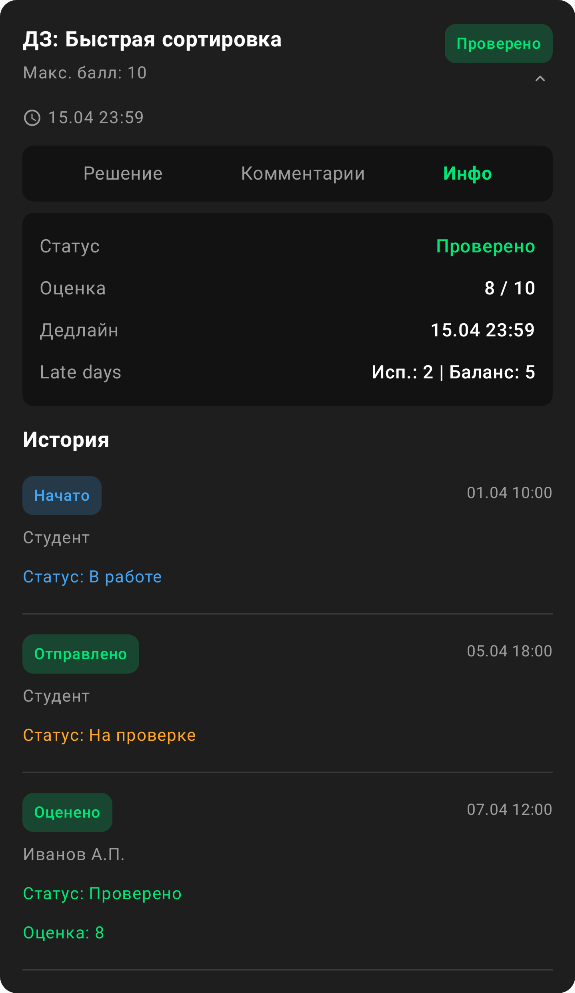
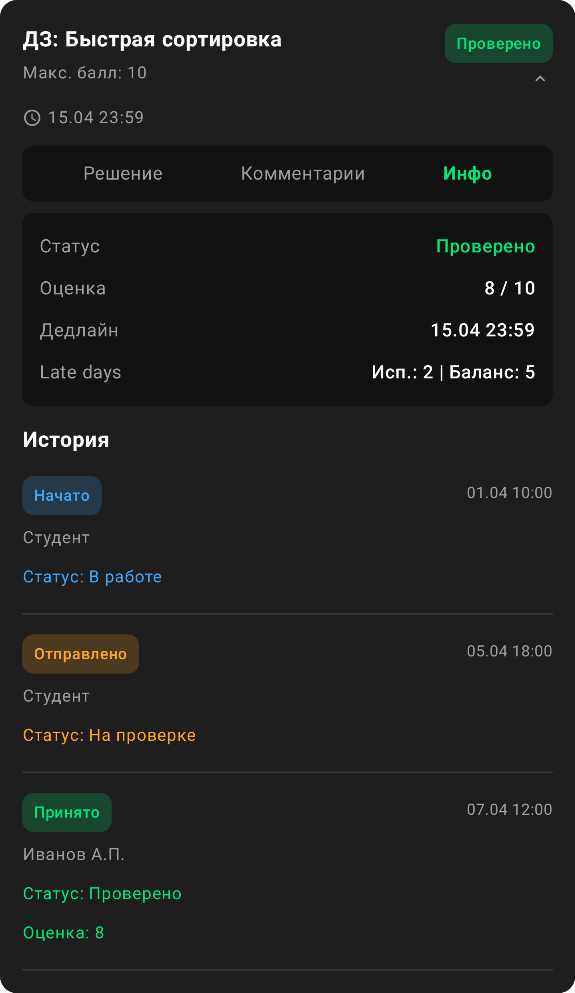
Update event type labels and colors in LongreadInfoTab (#31)
* Update event type labels and colors in LongreadInfoTab

- Refine Russian labels for event types to better match user expectations
- Update color mappings for task events (submission, rejection, reset)
- Add color assignments for taskReset and exerciseEstimated events
- Improve consistency in terminology across event descriptions

* Fix taskRejected event color to match app-wide theme

Use taskFailed (red) instead of taskInProgress (blue) for the
taskRejected event, consistent with taskStateColor in Theme.kt
where Rejected maps to colors.taskFailed.

---------

Changed region(s): [[0.0296, 0.6244, 0.2365, 0.6868], [0.0591, 0.8117, 0.1774, 0.8429]]

diff --git a/shared/src/commonMain/kotlin/io/github/kroune/cumobile/presentation/longread/ui/coding/LongreadInfoTab.kt b/shared/src/commonMain/kotlin/io/github/kroune/cumobile/presentation/longread/ui/coding/LongreadInfoTab.kt
@@ -197,22 +197,22 @@ private fun EventCard(
 private val eventTypeLabels = mapOf(
     "taskStarted" to "Начато",
     "taskSubmitted" to "Отправлено",
-    "taskEvaluated" to "Оценено",
-    "taskRejected" to "Отклонено",
+    "taskEvaluated" to "Принято",
+    "taskRejected" to "Доработка",
     "taskFailed" to "Не сдано",
-    "taskReset" to "Сброшено",
+    "taskReset" to "Статус изменён",
     "taskExtraScoreGranted" to "Доп. баллы",
     "maxScoreChanged" to "Макс. балл изменён",
     "exerciseMaxScoreChanged" to "Макс. балл изменён",
-    "exerciseEstimated" to "Оценка задания",
+    "exerciseEstimated" to "Задание выдано",
     "exerciseDeadlineChanged" to "Дедлайн изменён",
-    "assistantAssigned" to "Назначен ассистент",
-    "reviewerAssigned" to "Назначен ревьюер",
-    "taskProlonged" to "Продлено",
-    "solutionAttached" to "Решение прикреплено",
+    "assistantAssigned" to "Назначен проверяющий",
+    "reviewerAssigned" to "Назначен проверяющий",
+    "taskProlonged" to "Дедлайн изменён",
+    "solutionAttached" to "Файлы прикреплены",
     "taskLateDaysReset" to "Late days сброшены",
-    "taskLateDaysCancelled" to "Late days -",
-    "taskLateDaysProlong" to "Late days +",
+    "taskLateDaysCancelled" to "Late days возвращены",
+    "taskLateDaysProlong" to "Late days списаны",
 )
 
 private fun eventTypeLabel(type: String): String =
@@ -220,12 +220,14 @@ private fun eventTypeLabel(type: String): String =
 
 private val eventTypeColorAccessors: Map<String, (AppColorScheme) -> Color> = mapOf(
     "taskStarted" to { it.taskInProgress },
-    "taskSubmitted" to { it.taskHasSolution },
+    "taskSubmitted" to { it.taskReview },
     "solutionAttached" to { it.taskHasSolution },
     "taskEvaluated" to { it.taskEvaluated },
     "taskExtraScoreGranted" to { it.taskEvaluated },
-    "taskRejected" to { it.taskRevision },
+    "taskRejected" to { it.taskFailed },
     "taskFailed" to { it.taskFailed },
+    "taskReset" to { it.taskBacklog },
+    "exerciseEstimated" to { it.taskBacklog },
     "reviewerAssigned" to { it.accent },
     "assistantAssigned" to { it.accent },
 )
